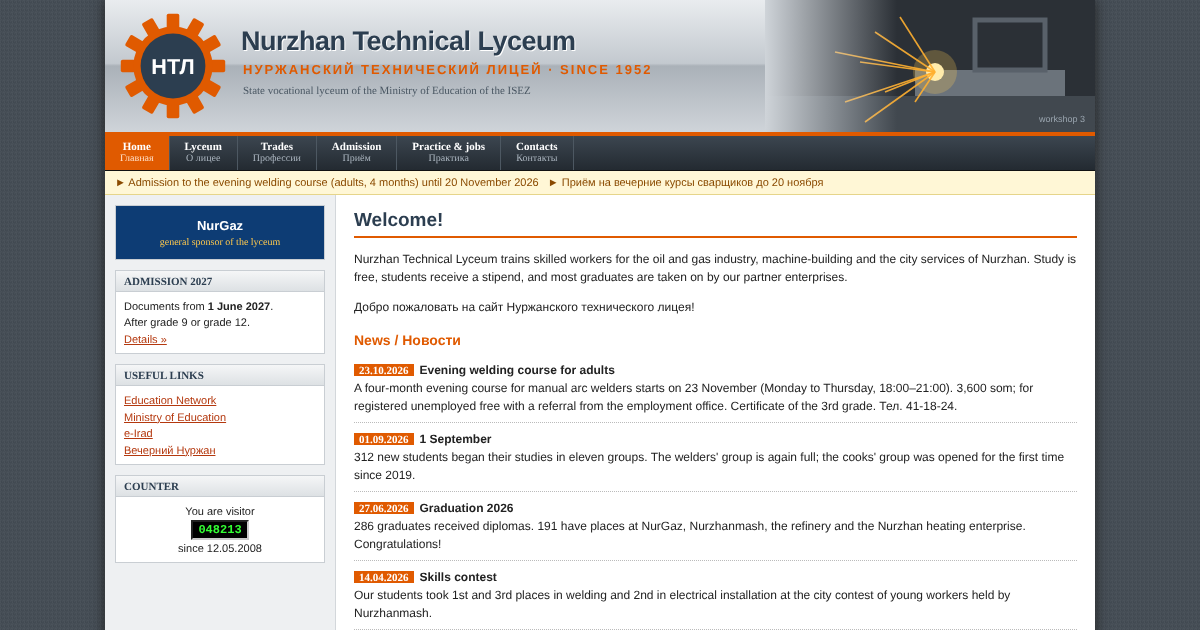
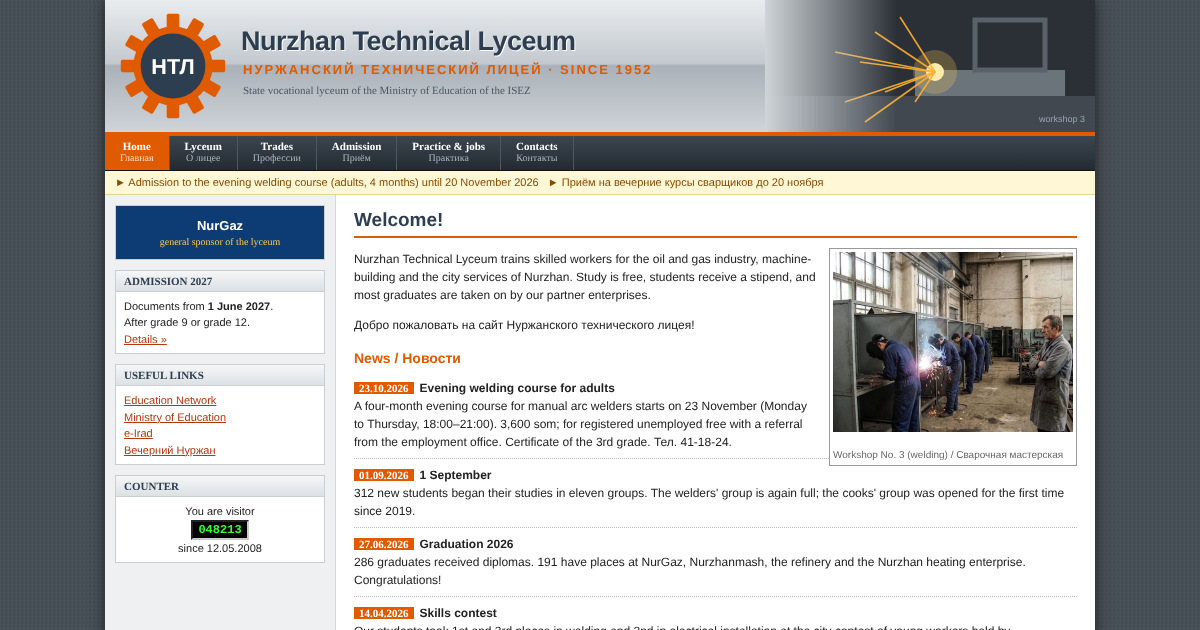
Mirror sync

Changed region(s): [[0.2775, 0.3921, 0.8942, 1.0]]

diff --git a/index.html b/index.html
@@ -36,7 +36,7 @@
 <div class="bx"><h4>Admission 2027</h4><div>Documents from <b>1 June 2027</b>.<br>After grade 9 or grade 12.<br><a href="admission.html">Details &raquo;</a></div></div>
 <div class="bx"><h4>Useful links</h4><div><a href="https://iradedu.org/">Education Network</a><br><a href="https://education.iradgov.org/">Ministry of Education</a><br><a href="https://e-irad.org/">e-Irad</a><br><a href="https://vnurzhan.com/">Вечерний Нуржан</a></div></div>
 <div class="bx"><h4>Counter</h4><div style="text-align:center">You are visitor<br><span class="cnt">048213</span><br>since 12.05.2008</div></div>
-</div><div id="c"><h1>Welcome!</h1><p>Nurzhan Technical Lyceum trains skilled workers for the oil and gas industry, machine-building and the city services of Nurzhan. Study is free, students receive a stipend, and most graduates are taken on by our partner enterprises.</p><p>Добро пожаловать на сайт Нуржанского технического лицея!</p><h2>News / Новости</h2><div class="nw"><span class="d">23.10.2026</span><b>Evening welding course for adults</b><br>A four-month evening course for manual arc welders starts on 23 November (Monday to Thursday, 18:00&ndash;21:00). 3,600 som; for registered unemployed free with a referral from the employment office. Certificate of the 3rd grade. Тел. 41-18-24.</div><div class="nw"><span class="d">01.09.2026</span><b>1 September</b><br>312 new students began their studies in eleven groups. The welders' group is again full; the cooks' group was opened for the first time since 2019.</div><div class="nw"><span class="d">27.06.2026</span><b>Graduation 2026</b><br>286 graduates received diplomas. 191 have places at NurGaz, Nurzhanmash, the refinery and the Nurzhan heating enterprise. Congratulations!</div><div class="nw"><span class="d">14.04.2026</span><b>Skills contest</b><br>Our students took 1st and 3rd places in welding and 2nd in electrical installation at the city contest of young workers held by Nurzhanmash.</div><div class="nw"><span class="d">02.02.2026</span><b>Frost</b><br>Classes on 2&ndash;4 February are cancelled because the workshops cannot be heated below &minus;25&deg;. Practice at the enterprises continues.</div></div></div>
+</div><div id="c"><h1>Welcome!</h1><div class="fl"><img src="assets/img/foto/welding.jpg" alt=""><br>Workshop No. 3 (welding) / Сварочная мастерская</div><p>Nurzhan Technical Lyceum trains skilled workers for the oil and gas industry, machine-building and the city services of Nurzhan. Study is free, students receive a stipend, and most graduates are taken on by our partner enterprises.</p><p>Добро пожаловать на сайт Нуржанского технического лицея!</p><h2>News / Новости</h2><div class="nw"><span class="d">23.10.2026</span><b>Evening welding course for adults</b><br>A four-month evening course for manual arc welders starts on 23 November (Monday to Thursday, 18:00&ndash;21:00). 3,600 som; for registered unemployed free with a referral from the employment office. Certificate of the 3rd grade. Тел. 41-18-24.</div><div class="nw"><span class="d">01.09.2026</span><b>1 September</b><br>312 new students began their studies in eleven groups. The welders' group is again full; the cooks' group was opened for the first time since 2019.</div><div class="nw"><span class="d">27.06.2026</span><b>Graduation 2026</b><br>286 graduates received diplomas. 191 have places at NurGaz, Nurzhanmash, the refinery and the Nurzhan heating enterprise. Congratulations!</div><div class="nw"><span class="d">14.04.2026</span><b>Skills contest</b><br>Our students took 1st and 3rd places in welding and 2nd in electrical installation at the city contest of young workers held by Nurzhanmash.</div><div class="nw"><span class="d">02.02.2026</span><b>Frost</b><br>Classes on 2&ndash;4 February are cancelled because the workshops cannot be heated below &minus;25&deg;. Practice at the enterprises continues.</div></div></div>
 <div id="ft"><div class="r">Design: studio &laquo;Pixel&raquo;, Nurzhan, 2008<br>Optimised for Internet Explorer 7, 1024&times;768</div>
 &copy; 1952&ndash;2026 Nurzhan Technical Lyceum. Dastgoh District, Foundry Street 5, Nurzhan.<br>Tel. +996-39-4-41-18-20 &middot; <a href="mailto:ntl@iradedu.org">ntl@iradedu.org</a></div>
 </div></body></html>

diff --git a/about.html b/about.html
@@ -37,6 +37,7 @@
 <div class="bx"><h4>Useful links</h4><div><a href="https://iradedu.org/">Education Network</a><br><a href="https://education.iradgov.org/">Ministry of Education</a><br><a href="https://e-irad.org/">e-Irad</a><br><a href="https://vnurzhan.com/">Вечерний Нуржан</a></div></div>
 <div class="bx"><h4>Counter</h4><div style="text-align:center">You are visitor<br><span class="cnt">048213</span><br>since 12.05.2008</div></div>
 </div><div id="c"><h1>About the lyceum / О лицее</h1>
+<div class="fl"><img src="assets/img/foto/building.jpg" alt=""><br>Main building, Foundry Street 5 / Главный корпус</div>
 <p><b>1952.</b> Kobozev Vocational School No. 3 (Russian: ПТУ-3) opens beside the Heavy Machine Plant to train turners, fitters and welders for the plant and the oil fields.</p>
 <p><b>1970s&ndash;80s.</b> Up to 1,400 students; a hostel for 300 young people from the villages; the school's brass band plays at every plant holiday.</p>
 <p><b>1994.</b> Renamed Nurzhan Technical Lyceum under the Ministry of Education. Teaching in Iradi and English since 1997; Russian is kept for the workshop instructors' explanations where the group asks.</p>
